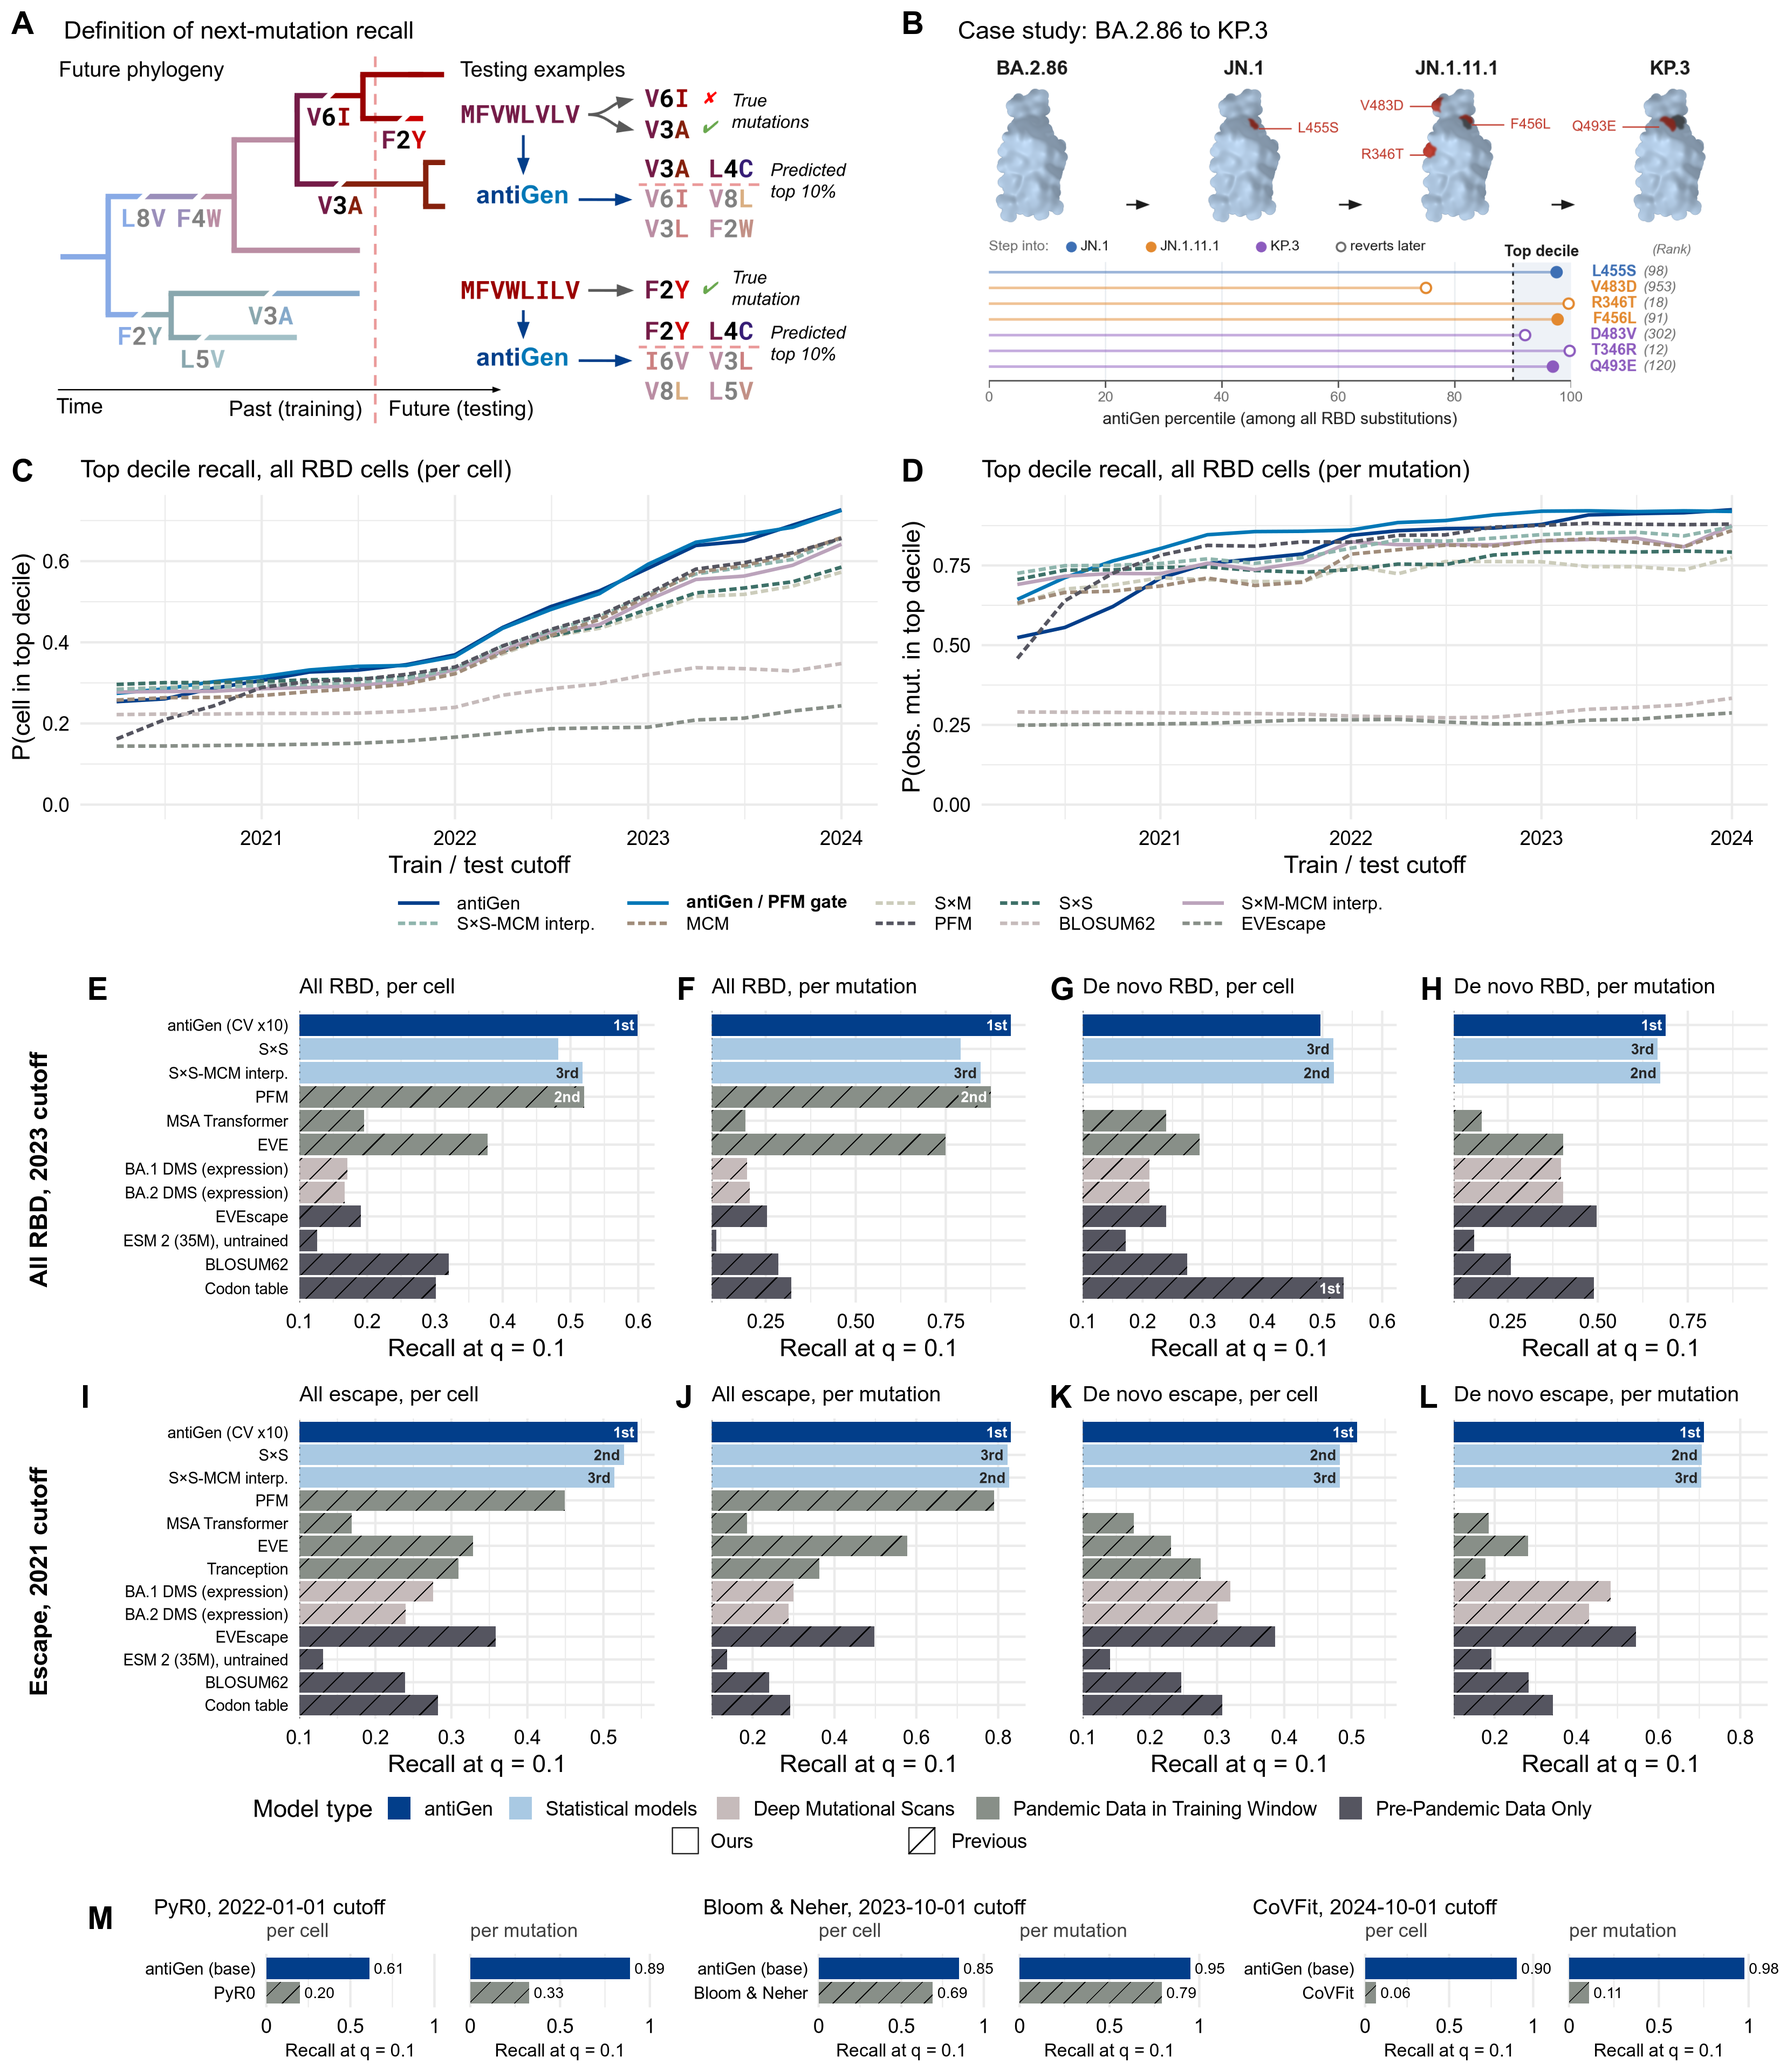
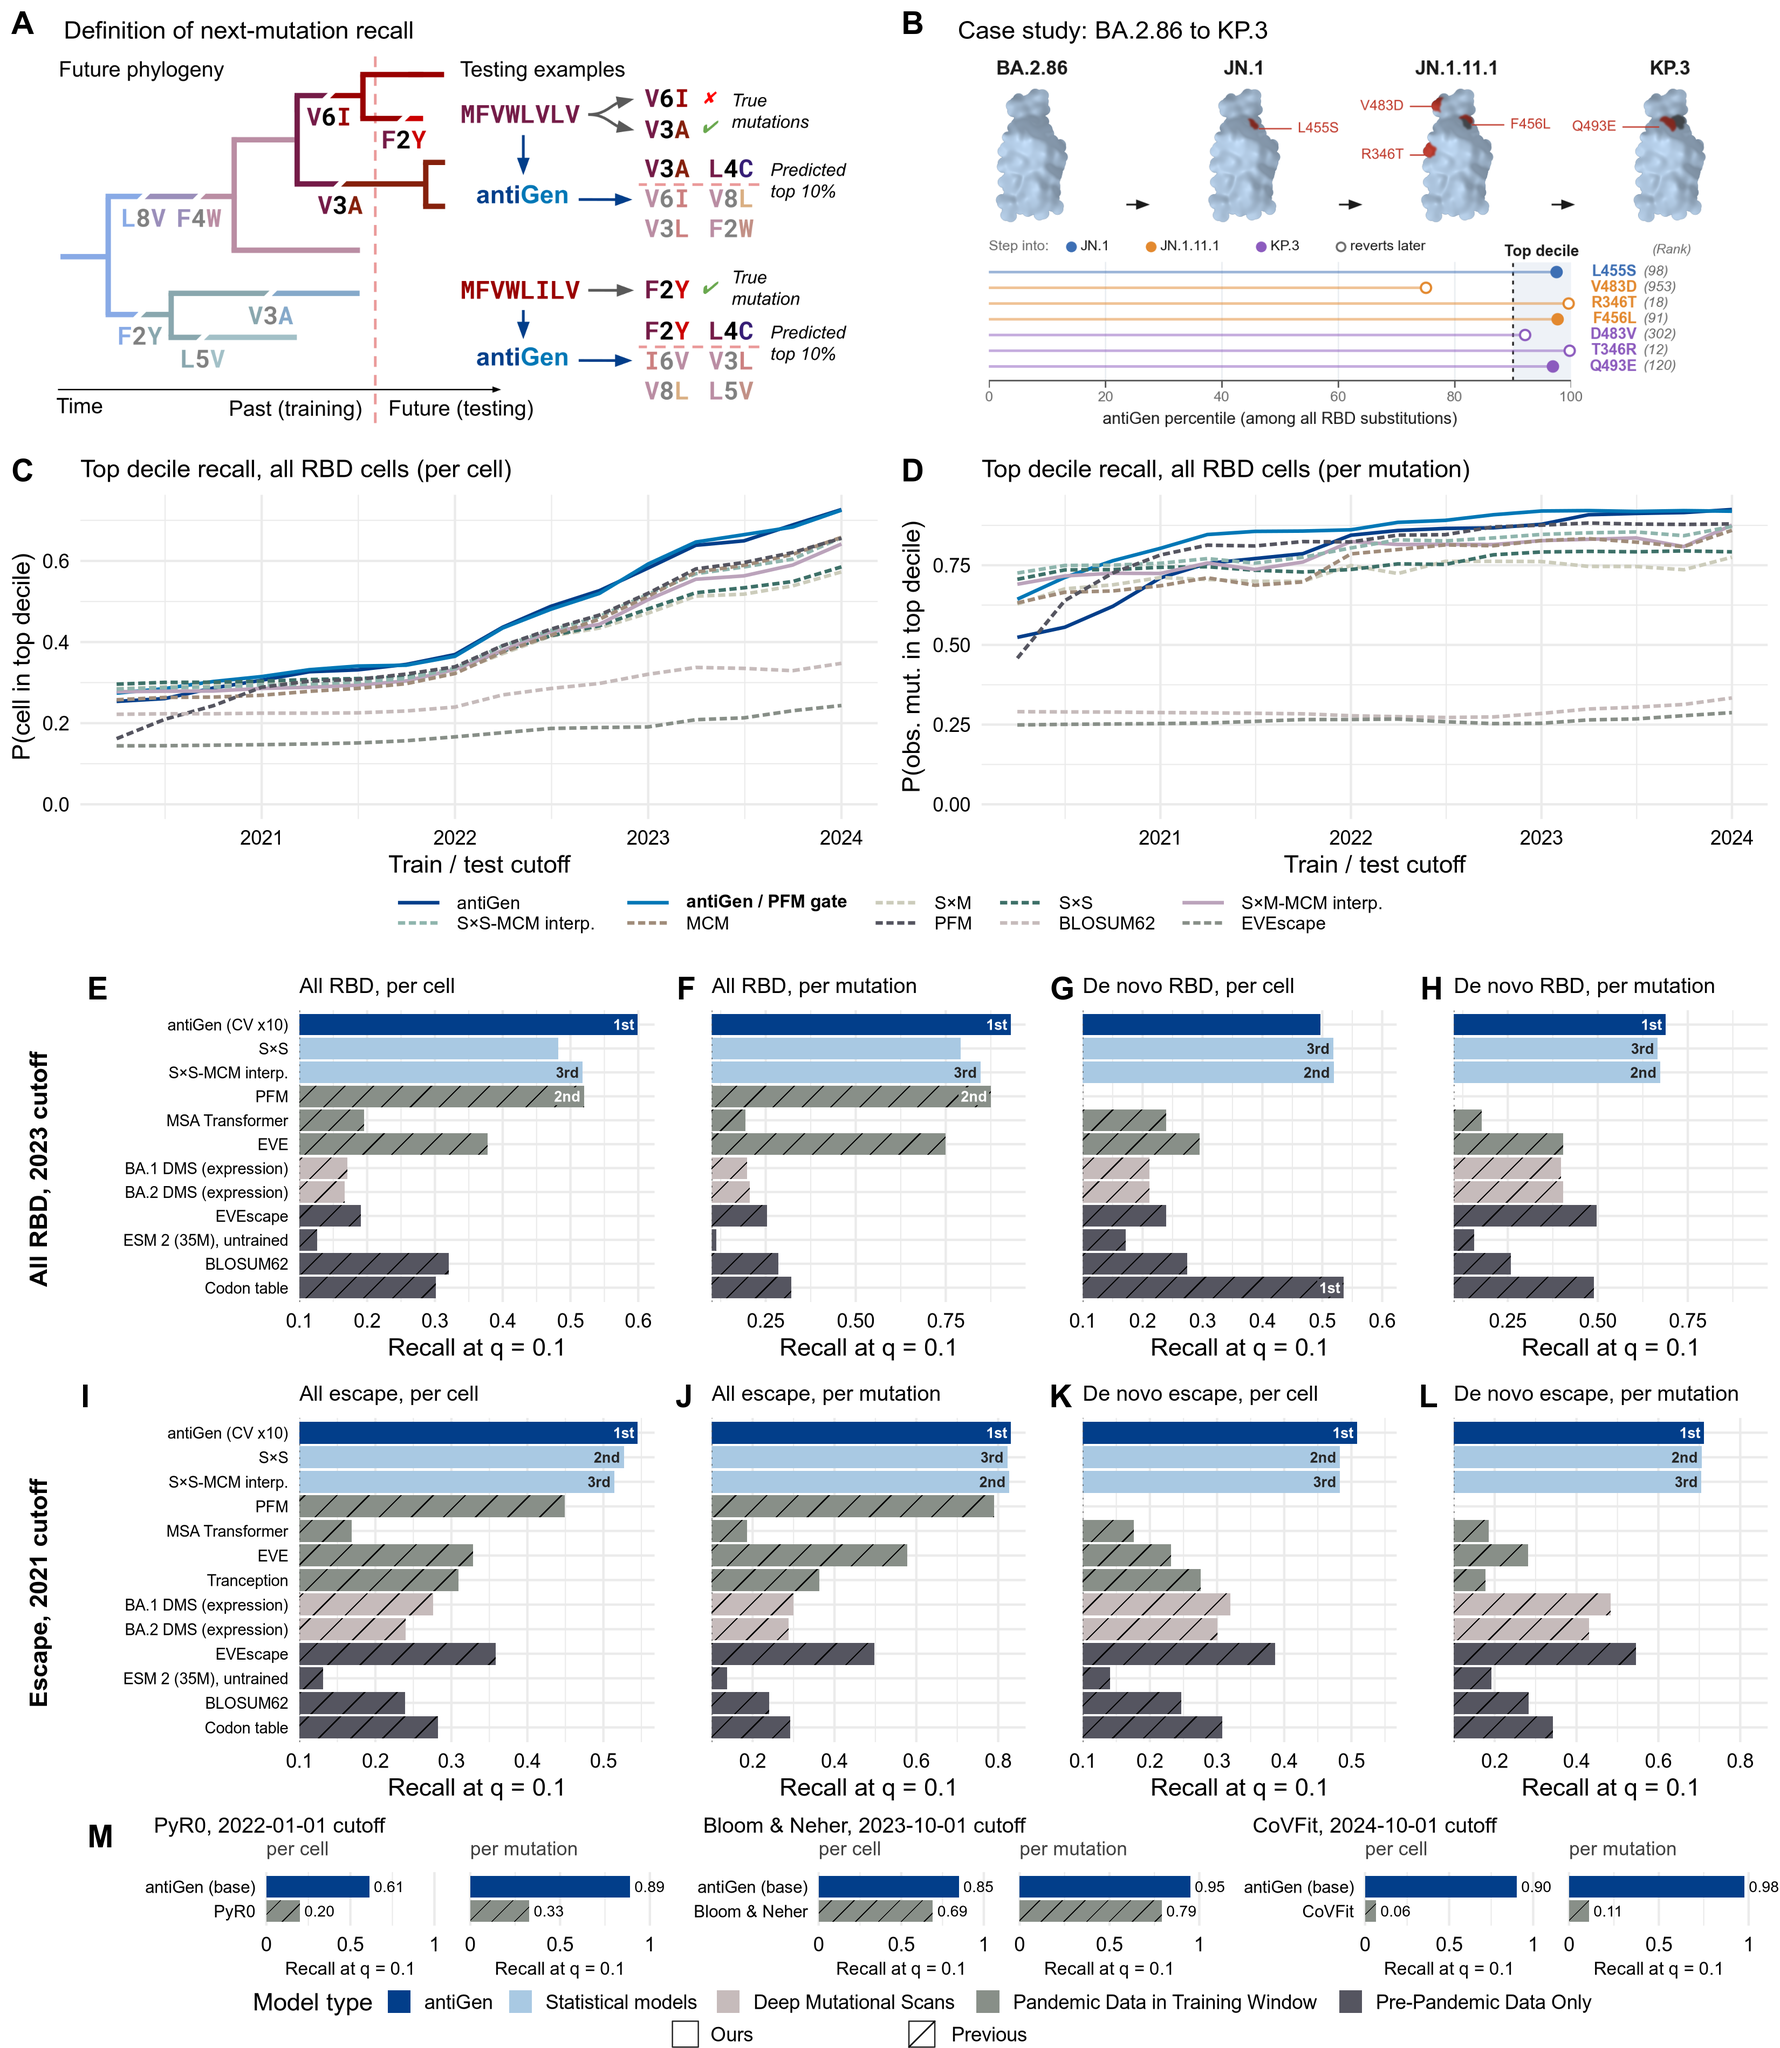
revised2: the E-M key below panel M, at the bottom of the main figure
NOTES s135.

diff --git a/experiments/multitree/NOTES.md b/experiments/multitree/NOTES.md
@@ -12945,3 +12945,9 @@ sites.
   continuous surface. The label routing gap doubles with the resolution, to 140 px.
 * **Panel B dots.** The dots near 100 (R346T, T346R) sat on the axes' right edge and
   were half clipped. They are now drawn with `clip_on = False`.
+
+## 135. The E-M key at the very bottom of the main figure (2026-11-09)
+
+In the MAIN figure the model-type / Ours-Previous key is now the last row, under panel M,
+which it also colours. I-L is directly followed by M (with 0.15 in between). The
+supplement has no M and keeps the s134 layout, with the key under I-L ending the figure.
